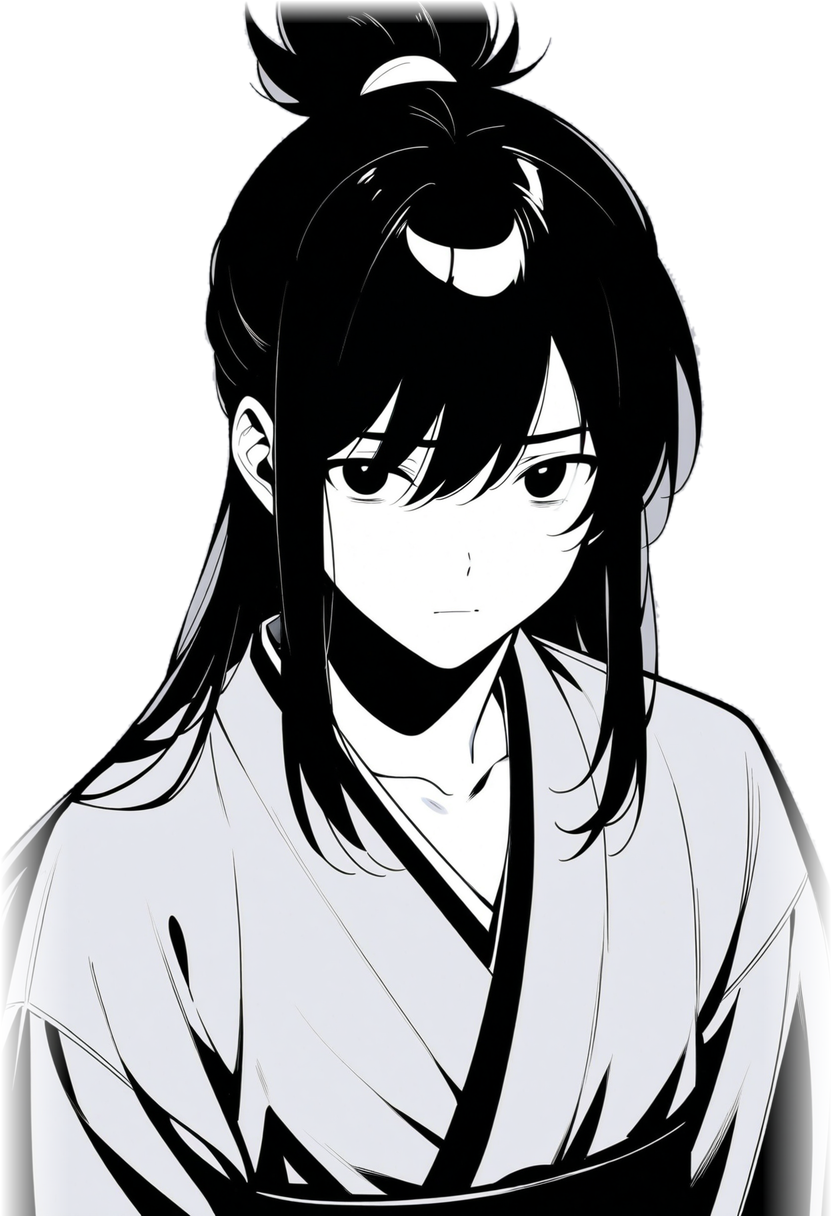
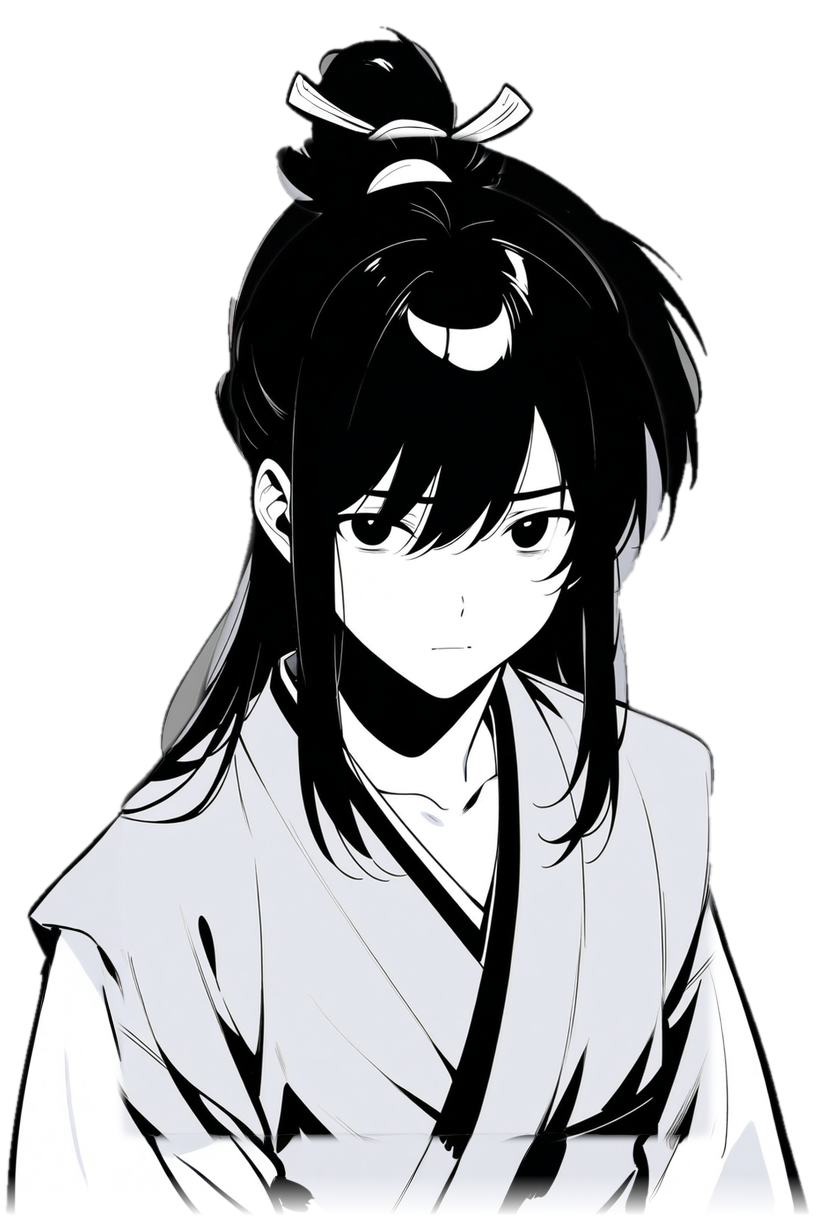
원화 잘린 데 이어 그리기 1차(사부·마철구·탁진·단목천 양호, 곽두·하후연은 새 모델로 다시) + 줄여 앉힌 배율만큼 화면에서 되돌려 키우는 OutScale — 게임 적용 전
Claude-Session: https://claude.ai/code/session_01VNwHYr6PKmgoG2ds8pmuJ4

diff --git a/unity-src/MolakArt.cs b/unity-src/MolakArt.cs
@@ -430,11 +430,19 @@ public class MolakArt : MonoBehaviour
         { "n_jinu", 380f }, { "n_yeoni", 450f }, { "n_seokun", 280f }, { "n_gwakdu", 530f }, { "n_macheolgu", 670f },
         { "n_takjin", 490f }, { "n_baekya", 500f }, { "n_dan", 490f }, { "n_hahuyeon", 540f } };
     public const float HeadStd = 400f, HeadLoose = 460f;
+    /// <summary>2026-11-28 잘린 어깨·상투를 이어 그리느라 판 안에 줄여 앉힌 원화(배율). 화면에서는 이만큼 되돌려 키운다.</summary>
+    static readonly Dictionary<string, float> OutScale = new Dictionary<string, float> {
+        { "n_gwakdu", 0.80f }, { "n_hahuyeon", 0.80f }, { "n_seokun", 0.84f }, { "n_macheolgu", 0.82f }, { "n_takjin", 0.86f }, { "n_dan", 0.88f } };
     public static float HeadZoom (string id)
     {
         if (string.IsNullOrEmpty(id)) return 1f;
         foreach (var kv in HeadPx)
-            if (id == kv.Key || id.StartsWith(kv.Key + "_")) return kv.Value > HeadLoose ? Mathf.Max(0.7f, HeadStd / kv.Value) : 1f;
+            if (id == kv.Key || id.StartsWith(kv.Key + "_"))
+            {
+                float z = kv.Value > HeadLoose ? Mathf.Max(0.7f, HeadStd / kv.Value) : 1f;
+                float os; if (OutScale.TryGetValue(kv.Key, out os)) z /= os;
+                return z;
+            }
         return 1f;
     }
     void MarkDirty () { if (!dirty) dirtyAt = Time.unscaledTime; dirty = true; }
@@ -886,7 +894,7 @@ public class MolakArt : MonoBehaviour
             slideT = Mathf.Min(1f, slideT + SlideStep());
             if (slideT < 1f) x += SlideOff(slideT) * camW;
             float y = cine ? top - camH*0.105f - sh*k*0.5f : thr ? bandCy + bandH*0.5f - 28f*unit - sh*k*0.5f : bandCy + bandH*0.5f - sh*k*0.5f + 16f*unit;
-            if (thr && hz < 1f) y = Mathf.Min(y, bandCy - bandH*0.5f + sh*k*0.5f - 4f*unit);   // 줄인 그림은 아랫변을 창 아래에 붙여 떠 보이지 않게(언메이커: 확대 기준)
+            if (thr && hz < 1.001f) y = Mathf.Min(y, bandCy - bandH*0.5f + sh*k*0.5f - 4f*unit);   // 줄인 그림은 아랫변을 창 아래에 붙여 떠 보이지 않게(언메이커: 확대 기준)
             bool duo = (cine || thr) && partR != null && showPart != null;
             if (duo) x += (Person(showCharId) == leftPerson ? -1f : 1f) * camW * 0.21f;   // 0.4.88 두 사람: 제 자리(왼/오)에 선다
             else if (thr) x += Mathf.Min(sw * k * 0.12f, Mathf.Max(0f, (camW - sw * k) * 0.5f));   // 시안처럼 조금 오른쪽 — 넓은 그림은 덜
